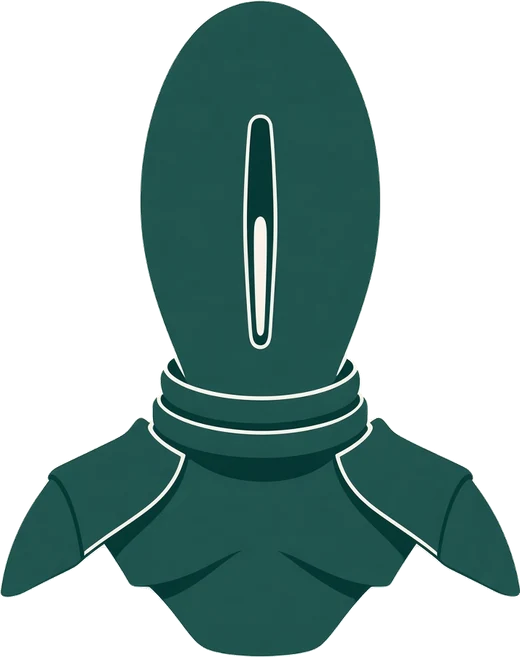
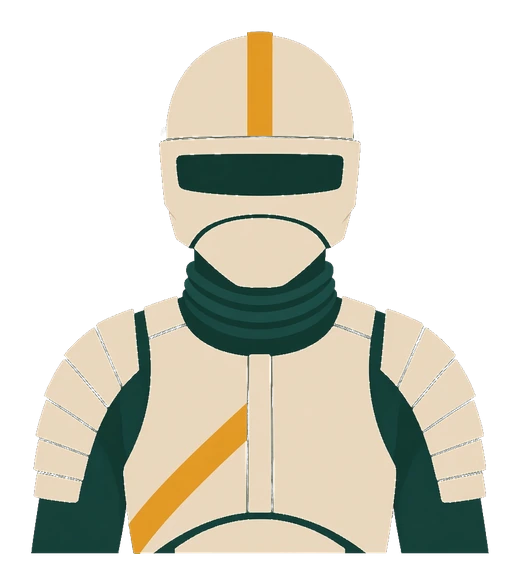
tracker: blink latest concordance point; swap in saga-style troopers
Mark asked for a live endpoint on the plot and stormtrooper-like identical
ranks; keep the design IP-safe while matching the saga high-end read.

diff --git a/tracker/designs/concordance/index.html b/tracker/designs/concordance/index.html
@@ -203,6 +203,11 @@ tbody tr:last-child td:last-child { color: var(--marigold); font-weight: 700; }
   .chart .line { stroke-dasharray: 1; stroke-dashoffset: 0; }
   .js .chart .line.draw { animation: draw 1.6s cubic-bezier(.16,1,.3,1) .25s both; }
   @keyframes draw { from { stroke-dashoffset: 1; } }
+  .chart .pt-last { animation: live-dot 1.1s steps(1, end) infinite; }
+  @keyframes live-dot {
+    0%, 49% { fill: var(--marigold); opacity: 1; }
+    50%, 100% { fill: var(--void); opacity: 1; }
+  }
 }
 
 /* ---------- responsive */
@@ -247,7 +252,7 @@ tbody tr:last-child td:last-child { color: var(--marigold); font-weight: 700; }
 <body>
 <header class="wrap strip">
   <a class="mark" href="./" aria-label="Homogenization Tracker, home">
-    <svg viewBox="0 0 18 22" aria-hidden="true"><ellipse cx="9" cy="8" rx="7" ry="8" fill="#3d8a78"/><rect x="8" y="3.5" width="2" height="8" fill="#efe6d2"/><rect x="2" y="17" width="14" height="3" fill="#3d8a78"/></svg>
+    <svg viewBox="0 0 18 22" aria-hidden="true"><ellipse cx="9" cy="8" rx="7.2" ry="7.6" fill="#efe6d2"/><rect x="8.2" y="1.2" width="1.6" height="5.2" fill="#e8a317"/><rect x="3.2" y="6.2" width="11.6" height="2.4" rx="0.6" fill="#1a3d36"/><path d="M4.2 10.2 Q9 13.2 13.8 10.2 L12.6 14.2 Q9 15.4 5.4 14.2 Z" fill="#efe6d2"/><rect x="4" y="16.2" width="10" height="2.2" fill="#1a3d36"/><rect x="2" y="18.8" width="14" height="2.4" fill="#efe6d2"/></svg>
     <span>Homogenization Tracker</span>
   </a>
   <span class="week num"><span class="wk">Week 8 · </span>16 Nov 2026</span>
@@ -314,12 +319,12 @@ tbody tr:last-child td:last-child { color: var(--marigold); font-weight: 700; }
 <image class="fig" href="assets/einstein.webp" x="70.0" y="206.8" width="104" height="133.2"/>
 <text class="fig-label" x="184.0" y="324.0">distinct voices</text>
 <g class="fig fig-units">
-<image href="assets/clone-unit.webp" x="942.0" y="21.8" width="54" height="68.2"/>
-<image href="assets/clone-unit.webp" x="1002.0" y="21.8" width="54" height="68.2"/>
-<image href="assets/clone-unit.webp" x="1062.0" y="21.8" width="54" height="68.2"/>
-<image href="assets/clone-unit.webp" x="1122.0" y="21.8" width="54" height="68.2"/>
+<image href="assets/clone-unit.webp" x="942.0" y="29.2" width="54" height="60.8"/>
+<image href="assets/clone-unit.webp" x="1002.0" y="29.2" width="54" height="60.8"/>
+<image href="assets/clone-unit.webp" x="1062.0" y="29.2" width="54" height="60.8"/>
+<image href="assets/clone-unit.webp" x="1122.0" y="29.2" width="54" height="60.8"/>
 </g>
-<text class="fig-label" x="1176.0" y="9.8" text-anchor="end">where we're heading</text>
+<text class="fig-label" x="1176.0" y="17.2" text-anchor="end">where we're heading</text>
 </svg>
       <svg class="chart chart-m" viewBox="0 0 420 440" role="img" aria-labelledby="chart-title-m chart-desc-m" preserveAspectRatio="xMidYMid meet">
 <title id="chart-title-m">Average similarity of Google's top 5 answers, week by week</title>
@@ -357,12 +362,12 @@ tbody tr:last-child td:last-child { color: var(--marigold); font-weight: 700; }
 <image class="fig" href="assets/einstein.webp" x="52.0" y="278.2" width="92" height="117.8"/>
 <text class="fig-label" x="154.0" y="380.0">distinct voices</text>
 <g class="fig fig-units">
-<image href="assets/clone-unit.webp" x="174.0" y="74.4" width="44" height="55.6"/>
-<image href="assets/clone-unit.webp" x="220.0" y="74.4" width="44" height="55.6"/>
-<image href="assets/clone-unit.webp" x="266.0" y="74.4" width="44" height="55.6"/>
-<image href="assets/clone-unit.webp" x="312.0" y="74.4" width="44" height="55.6"/>
+<image href="assets/clone-unit.webp" x="174.0" y="80.5" width="44" height="49.5"/>
+<image href="assets/clone-unit.webp" x="220.0" y="80.5" width="44" height="49.5"/>
+<image href="assets/clone-unit.webp" x="266.0" y="80.5" width="44" height="49.5"/>
+<image href="assets/clone-unit.webp" x="312.0" y="80.5" width="44" height="49.5"/>
 </g>
-<text class="fig-label" x="356.0" y="62.4" text-anchor="end">where we're heading</text>
+<text class="fig-label" x="356.0" y="68.5" text-anchor="end">where we're heading</text>
 </svg>
     </figure>
     <div class="readout">
@@ -383,7 +388,7 @@ tbody tr:last-child td:last-child { color: var(--marigold); font-weight: 700; }
       </div>
     </div>
     <div>
-      <span class="slots slots-hero" aria-hidden="true"><span class="slot" style="--f:1.000"><img src="assets/clone-unit.webp" alt="" width="52" height="65"></span><span class="slot" style="--f:0.958"><img src="assets/clone-unit.webp" alt="" width="52" height="65"></span><span class="slot" style="--f:0.000"><img src="assets/clone-unit.webp" alt="" width="52" height="65"></span><span class="slot" style="--f:0.000"><img src="assets/clone-unit.webp" alt="" width="52" height="65"></span><span class="slot" style="--f:0.000"><img src="assets/clone-unit.webp" alt="" width="52" height="65"></span></span>
+      <span class="slots slots-hero" aria-hidden="true"><span class="slot" style="--f:1.000"><img src="assets/clone-unit.webp" alt="" width="52" height="59"></span><span class="slot" style="--f:0.958"><img src="assets/clone-unit.webp" alt="" width="52" height="59"></span><span class="slot" style="--f:0.000"><img src="assets/clone-unit.webp" alt="" width="52" height="59"></span><span class="slot" style="--f:0.000"><img src="assets/clone-unit.webp" alt="" width="52" height="59"></span><span class="slot" style="--f:0.000"><img src="assets/clone-unit.webp" alt="" width="52" height="59"></span></span>
       <p class="slots-caption num"><span>Top 5 pages this week: marigold is distinct, a helmet is a repeat</span><span><b>1.96</b> of 5 distinct</span></p>
     </div>
   </div>
@@ -417,7 +422,7 @@ tbody tr:last-child td:last-child { color: var(--marigold); font-weight: 700; }
           <div class="scale" id="q-scale" style="--v:0.797"><span></span></div>
           <div class="scale-ends"><span>0 all different</span><span>1 identical</span></div>
         </div>
-        <span class="slots q-slots" aria-hidden="true"><span class="slot" style="--f:1.000"><img src="assets/clone-unit.webp" alt="" width="52" height="65"></span><span class="slot" style="--f:0.866"><img src="assets/clone-unit.webp" alt="" width="52" height="65"></span><span class="slot" style="--f:0.000"><img src="assets/clone-unit.webp" alt="" width="52" height="65"></span><span class="slot" style="--f:0.000"><img src="assets/clone-unit.webp" alt="" width="52" height="65"></span><span class="slot" style="--f:0.000"><img src="assets/clone-unit.webp" alt="" width="52" height="65"></span></span>
+        <span class="slots q-slots" aria-hidden="true"><span class="slot" style="--f:1.000"><img src="assets/clone-unit.webp" alt="" width="52" height="59"></span><span class="slot" style="--f:0.866"><img src="assets/clone-unit.webp" alt="" width="52" height="59"></span><span class="slot" style="--f:0.000"><img src="assets/clone-unit.webp" alt="" width="52" height="59"></span><span class="slot" style="--f:0.000"><img src="assets/clone-unit.webp" alt="" width="52" height="59"></span><span class="slot" style="--f:0.000"><img src="assets/clone-unit.webp" alt="" width="52" height="59"></span></span>
         <p class="slots-caption num"><span>Distinct pages</span><span><b id="q-distinct">1.87</b> of 5</span></p>
       </div>
     </article>
@@ -485,24 +490,24 @@ tbody tr:last-child td:last-child { color: var(--marigold); font-weight: 700; }
     </div>
     </div>
     <div class="legion" aria-hidden="true">
-<span class="unit"><img src="assets/clone-unit.webp" alt="" width="52" height="65" loading="lazy" decoding="async"><span>CU-0001</span></span>
-<span class="unit"><img src="assets/clone-unit.webp" alt="" width="52" height="65" loading="lazy" decoding="async"><span>CU-0002</span></span>
-<span class="unit"><img src="assets/clone-unit.webp" alt="" width="52" height="65" loading="lazy" decoding="async"><span>CU-0003</span></span>
-<span class="unit"><img src="assets/clone-unit.webp" alt="" width="52" height="65" loading="lazy" decoding="async"><span>CU-0004</span></span>
-<span class="unit"><img src="assets/clone-unit.webp" alt="" width="52" height="65" loading="lazy" decoding="async"><span>CU-0005</span></span>
-<span class="unit"><img src="assets/clone-unit.webp" alt="" width="52" height="65" loading="lazy" decoding="async"><span>CU-0006</span></span>
-<span class="unit"><img src="assets/clone-unit.webp" alt="" width="52" height="65" loading="lazy" decoding="async"><span>CU-0007</span></span>
-<span class="unit"><img src="assets/clone-unit.webp" alt="" width="52" height="65" loading="lazy" decoding="async"><span>CU-0008</span></span>
-<span class="unit"><img src="assets/clone-unit.webp" alt="" width="52" height="65" loading="lazy" decoding="async"><span>CU-0009</span></span>
-<span class="unit"><img src="assets/clone-unit.webp" alt="" width="52" height="65" loading="lazy" decoding="async"><span>CU-0010</span></span>
-<span class="unit"><img src="assets/clone-unit.webp" alt="" width="52" height="65" loading="lazy" decoding="async"><span>CU-0011</span></span>
-<span class="unit"><img src="assets/clone-unit.webp" alt="" width="52" height="65" loading="lazy" decoding="async"><span>CU-0012</span></span>
-<span class="unit"><img src="assets/clone-unit.webp" alt="" width="52" height="65" loading="lazy" decoding="async"><span>CU-0013</span></span>
-<span class="unit"><img src="assets/clone-unit.webp" alt="" width="52" height="65" loading="lazy" decoding="async"><span>CU-0014</span></span>
-<span class="unit"><img src="assets/clone-unit.webp" alt="" width="52" height="65" loading="lazy" decoding="async"><span>CU-0015</span></span>
-<span class="unit"><img src="assets/clone-unit.webp" alt="" width="52" height="65" loading="lazy" decoding="async"><span>CU-0016</span></span>
-<span class="unit"><img src="assets/clone-unit.webp" alt="" width="52" height="65" loading="lazy" decoding="async"><span>CU-0017</span></span>
-<span class="unit"><img src="assets/clone-unit.webp" alt="" width="52" height="65" loading="lazy" decoding="async"><span>CU-0018</span></span>
+<span class="unit"><img src="assets/clone-unit.webp" alt="" width="52" height="59" loading="lazy" decoding="async"><span>TU-0001</span></span>
+<span class="unit"><img src="assets/clone-unit.webp" alt="" width="52" height="59" loading="lazy" decoding="async"><span>TU-0002</span></span>
+<span class="unit"><img src="assets/clone-unit.webp" alt="" width="52" height="59" loading="lazy" decoding="async"><span>TU-0003</span></span>
+<span class="unit"><img src="assets/clone-unit.webp" alt="" width="52" height="59" loading="lazy" decoding="async"><span>TU-0004</span></span>
+<span class="unit"><img src="assets/clone-unit.webp" alt="" width="52" height="59" loading="lazy" decoding="async"><span>TU-0005</span></span>
+<span class="unit"><img src="assets/clone-unit.webp" alt="" width="52" height="59" loading="lazy" decoding="async"><span>TU-0006</span></span>
+<span class="unit"><img src="assets/clone-unit.webp" alt="" width="52" height="59" loading="lazy" decoding="async"><span>TU-0007</span></span>
+<span class="unit"><img src="assets/clone-unit.webp" alt="" width="52" height="59" loading="lazy" decoding="async"><span>TU-0008</span></span>
+<span class="unit"><img src="assets/clone-unit.webp" alt="" width="52" height="59" loading="lazy" decoding="async"><span>TU-0009</span></span>
+<span class="unit"><img src="assets/clone-unit.webp" alt="" width="52" height="59" loading="lazy" decoding="async"><span>TU-0010</span></span>
+<span class="unit"><img src="assets/clone-unit.webp" alt="" width="52" height="59" loading="lazy" decoding="async"><span>TU-0011</span></span>
+<span class="unit"><img src="assets/clone-unit.webp" alt="" width="52" height="59" loading="lazy" decoding="async"><span>TU-0012</span></span>
+<span class="unit"><img src="assets/clone-unit.webp" alt="" width="52" height="59" loading="lazy" decoding="async"><span>TU-0013</span></span>
+<span class="unit"><img src="assets/clone-unit.webp" alt="" width="52" height="59" loading="lazy" decoding="async"><span>TU-0014</span></span>
+<span class="unit"><img src="assets/clone-unit.webp" alt="" width="52" height="59" loading="lazy" decoding="async"><span>TU-0015</span></span>
+<span class="unit"><img src="assets/clone-unit.webp" alt="" width="52" height="59" loading="lazy" decoding="async"><span>TU-0016</span></span>
+<span class="unit"><img src="assets/clone-unit.webp" alt="" width="52" height="59" loading="lazy" decoding="async"><span>TU-0017</span></span>
+<span class="unit"><img src="assets/clone-unit.webp" alt="" width="52" height="59" loading="lazy" decoding="async"><span>TU-0018</span></span>
     </div>
   </div>
 </section>
@@ -510,7 +515,7 @@ tbody tr:last-child td:last-child { color: var(--marigold); font-weight: 700; }
 
 <footer class="wrap foot">
   <span class="num">Built from the run of 16 Nov 2026. Updated weekly.</span>
-  <span>Illustrations are generated artwork; the helmeted figure is an original design.</span>
+  <span>Illustrations are generated artwork; the helmeted trooper is an original design, not a franchise character.</span>
 </footer>
 
 <script>

diff --git a/tracker/designs/concordance/build.py b/tracker/designs/concordance/build.py
@@ -224,7 +224,7 @@ def chart_svg(data, w, h, variant):
 
     # figure: four identical units, top right, at the 1.0 end of the scale
     cw = 44 if mobile else 54
-    ch = cw * 657 / 520
+    ch = cw * 585 / 520
     gapc = 2 if mobile else 6
     group_w = 4 * cw + 3 * gapc
     cx = x1 - group_w
@@ -245,15 +245,15 @@ def slots_html(distinct, cls=""):
     cells = []
     for i in range(5):
         f = max(0.0, min(1.0, distinct - i))
-        cells.append(f'<span class="slot" style="--f:{f:.3f}"><img src="assets/clone-unit.webp" alt="" width="52" height="65"></span>')
+        cells.append(f'<span class="slot" style="--f:{f:.3f}"><img src="assets/clone-unit.webp" alt="" width="52" height="59"></span>')
     return f'<span class="slots {cls}" aria-hidden="true">{"".join(cells)}</span>'
 
 
 def legion_html(cols=6, rows=3):
     cells = []
     for i in range(cols * rows):
-        cells.append(f'<span class="unit"><img src="assets/clone-unit.webp" alt="" width="52" height="65" loading="lazy" decoding="async">'
-                     f'<span>CU-{i + 1:04d}</span></span>')
+        cells.append(f'<span class="unit"><img src="assets/clone-unit.webp" alt="" width="52" height="59" loading="lazy" decoding="async">'
+                     f'<span>TU-{i + 1:04d}</span></span>')
     return "\n".join(cells)
 
 
@@ -501,6 +501,11 @@ tbody tr:last-child td:last-child {{ color: var(--marigold); font-weight: 700; }
   .chart .line {{ stroke-dasharray: 1; stroke-dashoffset: 0; }}
   .js .chart .line.draw {{ animation: draw 1.6s cubic-bezier(.16,1,.3,1) .25s both; }}
   @keyframes draw {{ from {{ stroke-dashoffset: 1; }} }}
+  .chart .pt-last {{ animation: live-dot 1.1s steps(1, end) infinite; }}
+  @keyframes live-dot {{
+    0%, 49% {{ fill: var(--marigold); opacity: 1; }}
+    50%, 100% {{ fill: var(--void); opacity: 1; }}
+  }}
 }}
 
 /* ---------- responsive */
@@ -545,7 +550,7 @@ tbody tr:last-child td:last-child {{ color: var(--marigold); font-weight: 700; }
 <body>
 <header class="wrap strip">
   <a class="mark" href="./" aria-label="Homogenization Tracker, home">
-    <svg viewBox="0 0 18 22" aria-hidden="true"><ellipse cx="9" cy="8" rx="7" ry="8" fill="#3d8a78"/><rect x="8" y="3.5" width="2" height="8" fill="#efe6d2"/><rect x="2" y="17" width="14" height="3" fill="#3d8a78"/></svg>
+    <svg viewBox="0 0 18 22" aria-hidden="true"><ellipse cx="9" cy="8" rx="7.2" ry="7.6" fill="#efe6d2"/><rect x="8.2" y="1.2" width="1.6" height="5.2" fill="#e8a317"/><rect x="3.2" y="6.2" width="11.6" height="2.4" rx="0.6" fill="#1a3d36"/><path d="M4.2 10.2 Q9 13.2 13.8 10.2 L12.6 14.2 Q9 15.4 5.4 14.2 Z" fill="#efe6d2"/><rect x="4" y="16.2" width="10" height="2.2" fill="#1a3d36"/><rect x="2" y="18.8" width="14" height="2.4" fill="#efe6d2"/></svg>
     <span>Homogenization Tracker</span>
   </a>
   <span class="week num"><span class="wk">Week {d['week']} · </span>{d_long(d['latest'])}</span>
@@ -687,7 +692,7 @@ tbody tr:last-child td:last-child {{ color: var(--marigold); font-weight: 700; }
 
 <footer class="wrap foot">
   <span class="num">Built from the run of {d_long(d['latest'])}. Updated weekly.</span>
-  <span>Illustrations are generated artwork; the helmeted figure is an original design.</span>
+  <span>Illustrations are generated artwork; the helmeted trooper is an original design, not a franchise character.</span>
 </footer>
 
 <script>

diff --git a/PRODUCT.md b/PRODUCT.md
@@ -45,7 +45,7 @@ It measures this live rather than arguing it. The panel is fixed, the data is re
 
 - **The client's core idea is binding:** a single line over time, with the low end evoking distinct human genius and the high end evoking identical copies.
 - **Low end:** Albert Einstein, as the client suggested. Dauren will clear the rights to Einstein's likeness with the client before the page goes public. His likeness is commercially licensed.
-- **High end:** "identical copies", shown as an original helmeted figure repeated identically. This carries Mark's "clone army" image without being a Stormtrooper or any other franchise character (Disney/Lucasfilm IP on a public site). The helmet design must be clearly distinct from any franchise design.
+- **High end:** "identical copies", shown as an original helmeted trooper repeated identically. This carries Mark's "clone army" / stormtrooper image without being a franchise character (Disney/Lucasfilm IP on a public site). Bone armour, one horizontal wrap-around visor, viridian joints, marigold hazard stripes — clearly distinct from stormtrooper trade dress (no T-visor, twin lenses, frown grille, ear caps).
 - **Mark's composition (2026-11-09):** only two images, so the chart doesn't get crowded: Einstein at the lower left, just right of where the axes meet, and the identical copies at the top right ("where we're heading"). No figures stacked along the axis; he disliked that. The line starts a little right of the y-axis, leaving a gap for the period before 2026-10-04 with no data.
 
 ## Evidence on Hand
